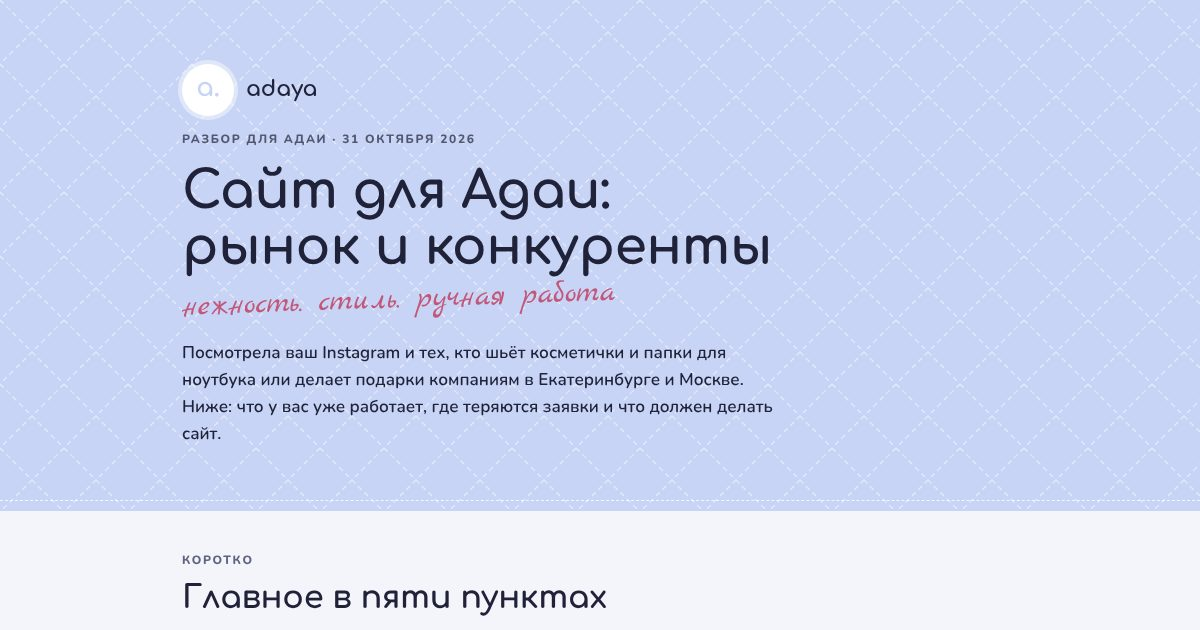
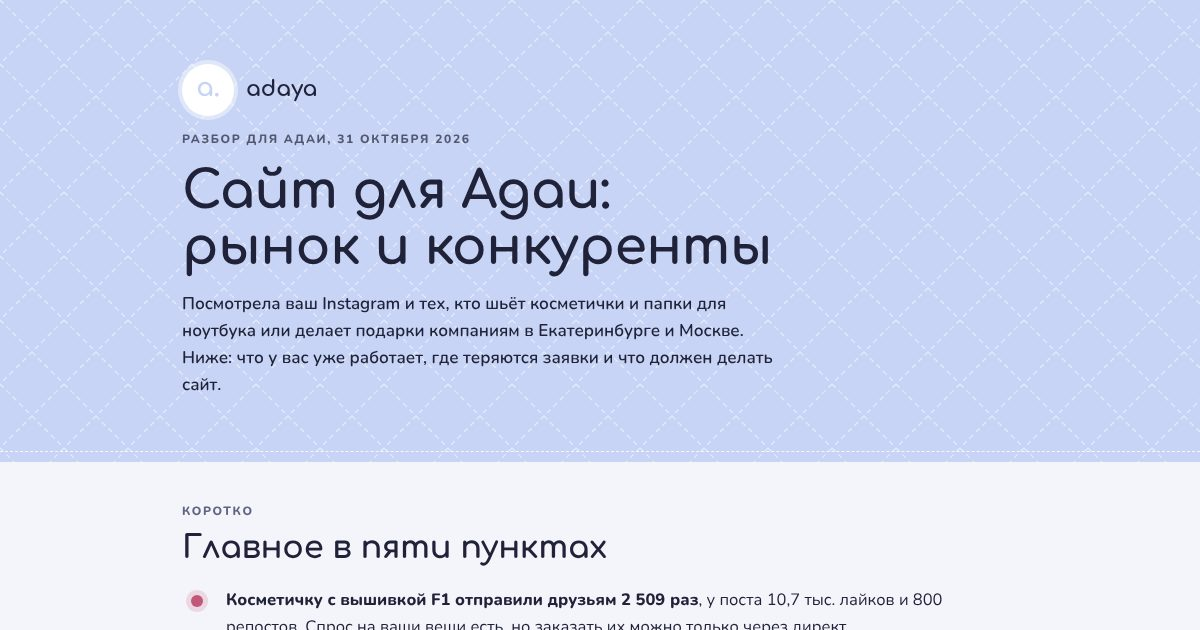
Адая: главный экран без строки с точками, лента-сантиметр и миниатюры изделий
Claude-Session: https://claude.ai/code/session_01MqcZMEh8DeEwFCaPR9DnHu

diff --git a/adaya/index.html b/adaya/index.html
@@ -5,17 +5,17 @@
 <meta name="viewport" content="width=device-width,initial-scale=1,viewport-fit=cover">
 <meta name="description" content="Папки для ноутбука и косметички по вашим размерам: главный экран и структура сайта Адаи">
 <meta property="og:type" content="website">
-<meta property="og:title" content="Адая · главный экран и структура сайта">
+<meta property="og:title" content="Адая — главный экран и структура сайта">
 <meta property="og:description" content="Папки для ноутбука и косметички по вашим размерам: главный экран и структура сайта Адаи">
 <meta property="og:image" content="https://mmaemi77-ctrl.github.io/Prototipfly/adaya/og-glavnyi.jpg">
 <meta property="og:image:width" content="1200">
 <meta property="og:image:height" content="630">
 <meta name="twitter:card" content="summary_large_image">
 <style>:root{color-scheme:light;box-sizing:border-box;padding-top:env(safe-area-inset-top,0px);padding-bottom:env(safe-area-inset-bottom,0px)}html{scroll-padding-top:env(safe-area-inset-top,0px)}body{margin:0;padding:0;font:14px -apple-system,BlinkMacSystemFont,sans-serif}img{max-width:100%}[hidden]{display:none!important}</style>
-<title>Адая · главный экран</title>
+<title>Адая — главный экран</title>
 <meta name="claude:viewport-fit-sides" content="cover">
 <link rel="preconnect" href="https://fonts.googleapis.com">
-<link rel="stylesheet" href="https://fonts.googleapis.com/css2?family=Comfortaa:wght@500;600;700&family=Marck+Script&family=Nunito:wght@400;600;700;800;900&display=swap">
+<link rel="stylesheet" href="https://fonts.googleapis.com/css2?family=Comfortaa:wght@500;600;700&family=Nunito:wght@400;600;700;800;900&display=swap">
 <style>
 /* Layout: витрина-мозаика из шаблона «Магазин». Перламутрово-голубая плитка со стёжкой ромбом и обещанием «по вашим размерам», большая плитка с фото изделий и переключателем, под ними строка подбора по ноутбуку; ниже структура сайта мини-макетами и живая заявка для компаний */
 :root{
@@ -34,12 +34,13 @@
   --thread:#C2577A;
   --display:"Comfortaa","Trebuchet MS",system-ui,sans-serif;
   --body:"Nunito",system-ui,-apple-system,"Segoe UI",sans-serif;
-  --script:"Marck Script","Segoe Script","Brush Script MT",cursive;
+  --tape:#F3DD72;
+  --tape-ink:#3A3524;
 }
 @media (prefers-color-scheme:dark){:root:not([data-theme="light"]){
-  --bg:#13141D;--surface:#1C1E2B;--ink:#EDEFF9;--muted:#A2A7C2;--line:#2D3044;--peri:#34406E;--peri-soft:#232843;--accent:#AFBDF4;--on-accent:#13141D;--butter:#8C7D36;--rose:#7C4A58;--wine:#D27382;--thread:#F0A3BC;color-scheme:dark}}
+  --bg:#13141D;--surface:#1C1E2B;--ink:#EDEFF9;--muted:#A2A7C2;--line:#2D3044;--peri:#34406E;--peri-soft:#232843;--accent:#AFBDF4;--on-accent:#13141D;--butter:#8C7D36;--rose:#7C4A58;--wine:#D27382;--thread:#F0A3BC;--tape:#E2CA62;--tape-ink:#2E2A1C;color-scheme:dark}}
 :root[data-theme="dark"]{
-  --bg:#13141D;--surface:#1C1E2B;--ink:#EDEFF9;--muted:#A2A7C2;--line:#2D3044;--peri:#34406E;--peri-soft:#232843;--accent:#AFBDF4;--on-accent:#13141D;--butter:#8C7D36;--rose:#7C4A58;--wine:#D27382;--thread:#F0A3BC;color-scheme:dark}
+  --bg:#13141D;--surface:#1C1E2B;--ink:#EDEFF9;--muted:#A2A7C2;--line:#2D3044;--peri:#34406E;--peri-soft:#232843;--accent:#AFBDF4;--on-accent:#13141D;--butter:#8C7D36;--rose:#7C4A58;--wine:#D27382;--thread:#F0A3BC;--tape:#E2CA62;--tape-ink:#2E2A1C;color-scheme:dark}
 
 *{box-sizing:border-box}
 body{background:var(--bg);color:var(--ink);font-family:var(--body);font-size:16px;line-height:1.55;margin:0;overflow-x:hidden}
@@ -59,13 +60,11 @@ button{font-family:var(--body)}
 .btn.sm{padding:10px 16px;font-size:14px}
 .btn svg{width:18px;height:18px;flex:none}
 .link{background:none;border:0;padding:0;font:inherit;color:inherit;text-decoration:underline;text-underline-offset:3px;cursor:pointer}
-.script{font-family:var(--script);font-weight:400;color:var(--thread);letter-spacing:.01em}
 
 /* шапка */
 .topline{background:var(--ink);color:var(--bg);font-size:13px;font-weight:700;text-align:center;padding-block:8px}
-.topline .wrap{display:flex;justify-content:center;gap:8px 22px;flex-wrap:wrap}
-.topline i{font-style:normal;opacity:.55}
-@media (max-width:520px){.topline i{display:none}.topline .wrap{gap:2px}}
+.topline .wrap{display:flex;justify-content:center;gap:8px 44px;flex-wrap:wrap}
+@media (max-width:520px){.topline .wrap{gap:2px}}
 header{position:sticky;top:env(safe-area-inset-top,0px);z-index:20;background:color-mix(in srgb,var(--bg) 90%,transparent);backdrop-filter:blur(12px);-webkit-backdrop-filter:blur(12px);border-bottom:1px solid var(--line)}
 header .wrap{display:flex;align-items:center;gap:22px;padding-block:12px}
 .logo{display:inline-flex;align-items:center;gap:10px;text-decoration:none;font-family:var(--display);font-weight:700;font-size:21px;letter-spacing:.01em}
@@ -88,9 +87,12 @@ header .btn{margin-left:4px}
 .t-main > *{position:relative;z-index:1}
 .t-main .tagrow{display:flex;flex-wrap:wrap;gap:8px}
 .chip{display:inline-flex;align-items:center;gap:6px;background:var(--surface);color:var(--ink);border-radius:999px;padding:7px 14px;font-size:13px;font-weight:800}
-.chip .dot{width:8px;height:8px;border-radius:50%;background:var(--thread)}
 .t-main h1{font-size:clamp(36px,5vw,60px);line-height:1.02;margin-top:4px}
-.t-main .script{font-size:clamp(26px,3.2vw,36px);display:block;margin-top:10px;transform:rotate(-2deg);transform-origin:left;text-shadow:0 1px 0 color-mix(in srgb,var(--surface) 60%,transparent)}
+.seam{background-image:linear-gradient(90deg,var(--thread) 0 9px,transparent 9px 15px);background-size:15px 3px;background-repeat:repeat-x;background-position:0 94%;padding-bottom:6px;white-space:nowrap;-webkit-box-decoration-break:clone;box-decoration-break:clone}
+.tape{position:relative;display:flex;justify-content:space-between;align-items:flex-end;gap:10px;height:42px;max-width:430px;margin-top:22px;padding:0 6px 6px 14px;border-radius:4px;transform:rotate(-1.6deg);transform-origin:left;color:var(--tape-ink);font-size:12.5px;font-weight:800;
+  background:repeating-linear-gradient(90deg,var(--tape-ink) 0 1.5px,transparent 1.5px 50px) 14px 0/calc(100% - 14px) 15px no-repeat,repeating-linear-gradient(90deg,color-mix(in srgb,var(--tape-ink) 70%,transparent) 0 1px,transparent 1px 10px) 14px 0/calc(100% - 14px) 8px no-repeat,var(--tape);
+  box-shadow:0 8px 18px rgb(30 34 60 / .14)}
+.tape b{background:var(--surface);color:var(--ink);border-radius:999px;padding:2px 10px;font-variant-numeric:tabular-nums}
 .t-main .sub{font-size:clamp(16px,1.6vw,18.5px);max-width:40ch;margin-top:16px;font-weight:600}
 .cta{display:flex;flex-wrap:wrap;gap:10px;margin-top:22px}
 .cta .btn.ghost{background:color-mix(in srgb,var(--surface) 55%,transparent);box-shadow:none}
@@ -99,17 +101,19 @@ header .btn{margin-left:4px}
 .facts span{display:block;font-size:13px;color:color-mix(in srgb,var(--ink) 72%,transparent);margin-top:4px;line-height:1.35}
 
 .t-photo{position:relative;border-radius:34px;overflow:hidden;background:#F6F5F2;min-height:590px}
-.t-photo img{position:absolute;inset:0;width:100%;height:100%;object-fit:cover;transition:opacity .35s}
-.t-photo img.fade{opacity:0}
-.t-photo .coll{position:absolute;top:18px;left:18px;z-index:2}
-.t-photo .size{position:absolute;top:18px;right:18px;z-index:2;background:var(--ink);color:var(--bg);border-radius:999px;padding:7px 14px;font-size:13px;font-weight:800}
+.t-photo > img{position:absolute;inset:0;width:100%;height:100%;object-fit:cover;transition:opacity .35s}
+.t-photo > img.fade{opacity:0}
+.t-photo .size{position:absolute;top:20px;left:20px;z-index:2;background:var(--ink);color:var(--bg);border-radius:999px;padding:7px 14px;font-size:13px;font-weight:800}
 .panel{position:absolute;left:14px;right:14px;bottom:14px;z-index:2;background:var(--surface);border-radius:24px;padding:14px 14px 14px 20px;display:flex;align-items:center;gap:14px;flex-wrap:wrap;box-shadow:0 14px 40px rgb(30 34 60 / .12)}
 .panel .info{flex:1;min-width:170px;display:grid;gap:2px}
 .panel .name{font-family:var(--display);font-weight:700;font-size:17px;line-height:1.25}
 .panel .spec{font-size:13.5px;color:var(--muted)}
-.arrows{display:flex;align-items:center;gap:6px;font-size:13px;font-weight:800;color:var(--muted);font-variant-numeric:tabular-nums}
-.arrows button{width:40px;height:40px;border-radius:50%;border:1.5px solid var(--line);background:var(--surface);color:var(--ink);font-size:17px;cursor:pointer}
-.arrows button:hover{border-color:var(--ink)}
+.thumbs{position:absolute;top:14px;right:14px;z-index:2;display:flex;gap:6px;padding:6px;border-radius:20px;background:color-mix(in srgb,var(--surface) 82%,transparent);backdrop-filter:blur(8px);-webkit-backdrop-filter:blur(8px)}
+.panel .coll{font-size:11.5px;font-weight:800;letter-spacing:.12em;text-transform:uppercase;color:var(--thread)}
+.thumbs button{width:46px;height:46px;border-radius:13px;border:0;padding:0;overflow:hidden;cursor:pointer;background:#F6F5F2;box-shadow:0 0 0 1.5px var(--line);opacity:.65;transition:opacity .2s,box-shadow .2s}
+.thumbs button:hover{opacity:1}
+.thumbs button[aria-pressed="true"]{opacity:1;box-shadow:0 0 0 2px var(--surface),0 0 0 4px var(--ink)}
+.thumbs img{width:100%;height:100%;object-fit:cover;display:block}
 
 .pick{grid-column:1/-1;background:var(--surface);border-radius:28px;padding:16px;display:grid;grid-template-columns:minmax(150px,1.1fr) repeat(4,minmax(0,1fr)) auto;gap:12px;align-items:end;border:1px solid var(--line)}
 .pick .lbl{font-family:var(--display);font-weight:700;font-size:17px;line-height:1.25;padding:0 6px 8px}
@@ -123,7 +127,7 @@ select:focus,input:focus{border-color:var(--accent);outline:none}
 .pick .own span{font-size:14px;color:var(--muted);font-weight:700}
 @media (max-width:1020px){.pick{grid-template-columns:repeat(2,minmax(0,1fr))}.pick .lbl{grid-column:1/-1;padding-bottom:0}.pick .btn{grid-column:1/-1}.pick .own{grid-column:1/-1}}
 @media (max-width:860px){.hero{grid-template-columns:1fr}.t-main{min-height:0}.t-photo{min-height:0;aspect-ratio:1/1.05;max-width:100%}}
-@media (max-width:520px){.facts{grid-template-columns:1fr;gap:10px}.facts div{display:flex;gap:10px;align-items:baseline}.facts span{margin:0}.pick{grid-template-columns:1fr}.t-photo{aspect-ratio:4/5}}
+@media (max-width:520px){.t-photo .size{display:none}.thumbs{left:50%;right:auto;transform:translateX(-50%)}.thumbs button{width:40px;height:40px;border-radius:11px}.facts{grid-template-columns:1fr;gap:10px}.facts div{display:flex;gap:10px;align-items:baseline}.facts span{margin:0}.pick{grid-template-columns:1fr}.t-photo{aspect-ratio:4/5}}
 
 /* структура */
 section{padding-block:56px}
@@ -215,6 +219,7 @@ section{padding-block:56px}
 
 footer{padding-block:36px 44px;font-size:14px;color:var(--muted)}
 footer .wrap{display:flex;flex-wrap:wrap;justify-content:space-between;align-items:center;gap:12px}
+.flinks{display:flex;flex-wrap:wrap;gap:6px 18px}
 .sign{display:inline-flex;align-items:center;gap:10px;flex-wrap:wrap}
 .sign b{font-family:var(--display);font-weight:700;letter-spacing:.08em;color:var(--ink)}
 .socials{display:flex;gap:8px}
@@ -240,7 +245,7 @@ footer .wrap{display:flex;flex-wrap:wrap;justify-content:space-between;align-ite
 <body>
 
 
-<div class="topline"><div class="wrap"><span>При заказе от 5&nbsp;000&nbsp;₽ стикер-пак в&nbsp;подарок</span><i aria-hidden="true">·</i><span>Шьём по&nbsp;вашим размерам</span></div></div>
+<div class="topline"><div class="wrap"><span>При заказе от 5&nbsp;000&nbsp;₽ стикер-пак в&nbsp;подарок</span><span>Шьём по&nbsp;вашим размерам</span></div></div>
 <header>
   <div class="wrap">
     <a class="logo" href="#top" aria-label="Адая"><span class="mark" aria-hidden="true">a.</span>adaya</a>
@@ -254,10 +259,10 @@ footer .wrap{display:flex;flex-wrap:wrap;justify-content:space-between;align-ite
 
 <section class="wrap hero" style="padding-block:14px 10px">
   <div class="t-main">
-    <div class="tagrow"><span class="chip"><span class="dot"></span>Ручная работа</span><span class="chip">Екатеринбург</span><span class="chip">Есть в&nbsp;Золотом яблоке</span></div>
+    <div class="tagrow"><span class="chip">Ручная работа</span><span class="chip">Екатеринбург</span><span class="chip">Есть в&nbsp;Золотом яблоке</span></div>
     <div>
-      <h1>Папка для ноутбука, сшитая по&nbsp;его размеру</h1>
-      <span class="script">нежность. стиль. ручная работа</span>
+      <h1>Папка для ноутбука, сшитая <span class="seam">по&nbsp;его размеру</span></h1>
+      <div class="tape" aria-hidden="true"><span>MacBook Air 13″</span><b>30,41 см</b></div>
       <p class="sub">И&nbsp;косметички к&nbsp;ней в&nbsp;пару. Вышьем имя, инициалы, болид из&nbsp;Баку или гранат из&nbsp;Стамбула.</p>
       <div class="cta"><a class="btn" href="#pick">Подобрать по&nbsp;размеру</a><a class="btn ghost" href="#s-korp">Подарки для команды</a></div>
     </div>
@@ -270,11 +275,10 @@ footer .wrap{display:flex;flex-wrap:wrap;justify-content:space-between;align-ite
 
   <div class="t-photo" aria-live="polite">
     <img id="ph" src="img/baku.jpg" alt="">
-    <span class="chip coll" id="p-coll"><span class="dot"></span><span></span></span>
     <span class="size" id="p-size"></span>
+    <div class="thumbs" id="thumbs" role="group" aria-label="Изделия"></div>
     <div class="panel">
-      <div class="info"><span class="name" id="p-name"></span><span class="spec" id="p-spec"></span></div>
-      <div class="arrows"><button type="button" id="prev" aria-label="Предыдущее изделие">←</button><span id="p-n"></span><button type="button" id="next" aria-label="Следующее изделие">→</button></div>
+      <div class="info"><span class="coll" id="p-coll"></span><span class="name" id="p-name"></span><span class="spec" id="p-spec"></span></div>
       <button type="button" class="btn sm accent" id="p-want">Хочу такую</button>
     </div>
   </div>
@@ -308,7 +312,7 @@ footer .wrap{display:flex;flex-wrap:wrap;justify-content:space-between;align-ite
 
 <article class="blk" id="s-glavnyi">
   <div class="wf" style="grid-template-columns:1fr 1fr;grid-template-rows:1fr auto">
-    <div class="peri" style="padding:10px;display:grid;gap:6px;align-content:end"><span class="ln" style="width:90%;height:9px;background:var(--ink)"></span><span class="ln" style="width:70%;height:9px;background:var(--ink)"></span><span class="script" style="font-size:13px;line-height:1">нежность. стиль</span><span class="pl" style="width:60%;height:16px;background:var(--ink);border-color:var(--ink);margin-top:4px"></span></div>
+    <div class="peri" style="padding:10px;display:grid;gap:6px;align-content:end"><span class="ln" style="width:90%;height:9px;background:var(--ink)"></span><span class="ln" style="width:70%;height:9px;background:var(--ink)"></span><span style="display:block;width:62%;height:9px;border-radius:2px;background:var(--tape);transform:rotate(-2deg)"></span><span class="pl" style="width:60%;height:16px;background:var(--ink);border-color:var(--ink);margin-top:4px"></span></div>
     <div class="ph" style="background-image:url(img/baku.jpg);position:relative"><span class="pl" style="position:absolute;left:6px;right:6px;bottom:6px;height:22px"></span></div>
     <div style="grid-column:1/-1;background:var(--surface);border-radius:10px;padding:5px;display:grid;grid-template-columns:repeat(4,1fr) .8fr;gap:5px"><span class="pl"></span><span class="pl"></span><span class="pl"></span><span class="pl"></span><span class="pl a"></span></div>
   </div>
@@ -356,7 +360,7 @@ footer .wrap{display:flex;flex-wrap:wrap;justify-content:space-between;align-ite
 <div class="wrap" style="padding-bottom:14px">
 <article class="corp" id="s-korp">
   <div class="corp-top">
-    <div><span class="no">05 · Корпоративные заказы</span><h3>Подарки команде с&nbsp;логотипом за&nbsp;5&nbsp;вопросов</h3><p>Компания отвечает на&nbsp;пять вопросов, а&nbsp;вам приходит готовый запрос: изделия, тираж, оформление, цвета и&nbsp;дата. Попробуйте, всё нажимается.</p></div>
+    <div><span class="no">05</span><span class="eyebrow" style="margin-left:10px">Корпоративные заказы</span><h3>Подарки команде с&nbsp;логотипом за&nbsp;5&nbsp;вопросов</h3><p>Компания отвечает на&nbsp;пять вопросов, а&nbsp;вам приходит готовый запрос: изделия, тираж, оформление, цвета и&nbsp;дата. Попробуйте, всё нажимается.</p></div>
     <span class="live">Работает в&nbsp;наброске</span>
   </div>
   <div class="corp-grid">
@@ -388,7 +392,7 @@ footer .wrap{display:flex;flex-wrap:wrap;justify-content:space-between;align-ite
       <span style="position:absolute;inset:7px;border:1.5px dashed rgb(255 255 255 / .8);border-radius:9px"></span>
       <span style="position:absolute;left:0;right:0;top:44%;height:10px;background:var(--rose)"></span>
       <span style="position:absolute;top:0;bottom:0;left:22%;width:10px;background:var(--rose)"></span>
-      <div style="position:relative;background:var(--surface);border-radius:10px;padding:8px 14px;text-align:center;display:grid;gap:2px"><span style="font-family:var(--display);font-weight:700;font-size:15px">a.</span><span class="script" style="font-size:15px;line-height:1">папка по&nbsp;размеру</span><span class="tiny">сертификат</span></div>
+      <div style="position:relative;background:var(--surface);border-radius:10px;padding:8px 14px;text-align:center;display:grid;gap:2px"><span style="font-family:var(--display);font-weight:700;font-size:15px">a.</span><span style="font-family:var(--display);font-weight:700;font-size:12px;line-height:1.2;color:var(--thread)">папка по&nbsp;размеру</span><span class="tiny">сертификат</span></div>
     </div>
   </div>
   <div class="txt"><span class="no">06</span><h3>Подарок к&nbsp;Новому году</h3><p class="why">Сертификат на&nbsp;папку по&nbsp;размеру: дарят, даже не&nbsp;зная модель ноутбука</p><ul><li>Сертификат в&nbsp;коробке</li><li>Получатель сам выбирает цвет и&nbsp;вышивку</li><li>Последний день заказа к&nbsp;31 декабря</li></ul></div>
@@ -462,7 +466,7 @@ footer .wrap{display:flex;flex-wrap:wrap;justify-content:space-between;align-ite
 
 <footer>
   <div class="wrap">
-    <span>Подготовила Анастасия Абдуллаева · <button type="button" class="link" data-doc="politika">Политика</button> · <button type="button" class="link" data-doc="soglasie">Согласие на&nbsp;обработку данных</button></span>
+    <span class="flinks"><span>Подготовила Анастасия Абдуллаева</span><button type="button" class="link" data-doc="politika">Политика</button><button type="button" class="link" data-doc="soglasie">Согласие на&nbsp;обработку данных</button></span>
     <span class="sign"><span><b>FOR.MI</b> designed &amp; developed by ABN</span><span class="socials" id="dev-socials"></span></span>
   </div>
 </footer>
@@ -492,10 +496,10 @@ const SHOP={
 };
 /* изделия из постов: названия описательные, как называете модели — уточнить */
 const ITEMS=[
-  {img:"img/baku.jpg",coll:"Коллекция F1",name:"Папка-конверт с вышивкой BAKU",spec:"Стёжка полосами · розовый болид",size:"по размеру ноутбука",alt:"Белая стёганая папка-конверт для ноутбука с вышивкой BAKU и розовым болидом"},
-  {img:"img/granat.jpg",coll:"Welcome to Istanbul",name:"Косметичка с вышивкой граната",spec:"Бордовая · стёжка ромбом",size:"косметичка",alt:"Бордовая стёганая косметичка с вышитыми гранатами"},
-  {img:"img/simit.jpg",coll:"Welcome to Istanbul",name:"Косметичка в клетку с симитом",spec:"Красная клетка · вышитый бублик-симит",size:"косметичка",alt:"Косметичка в красно-белую клетку с вышитым турецким бубликом"},
-  {img:"img/mama.jpg",coll:"День матери",name:"Папка на молнии «С днём мам»",spec:"Бежевая · гусыня с гусёнком",size:"по размеру ноутбука",alt:"Бежевая стёганая папка на молнии с вышивкой гусыни и надписью «с днём мам»"}
+  {img:"img/baku.jpg",coll:"Коллекция F1",name:"Папка-конверт с вышивкой BAKU",spec:"Стёжка полосами, розовый болид",size:"по размеру ноутбука",alt:"Белая стёганая папка-конверт для ноутбука с вышивкой BAKU и розовым болидом"},
+  {img:"img/granat.jpg",coll:"Welcome to Istanbul",name:"Косметичка с вышивкой граната",spec:"Бордовая, стёжка ромбом",size:"косметичка",alt:"Бордовая стёганая косметичка с вышитыми гранатами"},
+  {img:"img/simit.jpg",coll:"Welcome to Istanbul",name:"Косметичка в клетку с симитом",spec:"Красная клетка, вышитый бублик-симит",size:"косметичка",alt:"Косметичка в красно-белую клетку с вышитым турецким бубликом"},
+  {img:"img/mama.jpg",coll:"День матери",name:"Папка на молнии «С днём мам»",spec:"Бежевая, гусыня с гусёнком",size:"по размеру ноутбука",alt:"Бежевая стёганая папка на молнии с вышивкой гусыни и надписью «с днём мам»"}
 ];
 /* размеры ноутбуков: ширина × глубина × толщина, см (данные производителя) */
 const LAPTOPS=[
@@ -517,13 +521,13 @@ function show(k){
   cur=(k+ITEMS.length)%ITEMS.length;const m=ITEMS[cur],ph=$("#ph");
   ph.classList.add("fade");
   setTimeout(()=>{ph.src=m.img;ph.alt=m.alt;ph.classList.remove("fade")},180);
-  $("#p-coll span:last-child").textContent=m.coll;
+  $("#p-coll").textContent=m.coll;
   $("#p-name").textContent=m.name;$("#p-spec").textContent=m.spec;$("#p-size").textContent=m.size;
-  $("#p-n").textContent=(cur+1)+" / "+ITEMS.length;
+  $("#thumbs").querySelectorAll("button").forEach((b,i)=>b.setAttribute("aria-pressed",String(i===cur)));
 }
+$("#thumbs").innerHTML=ITEMS.map((m,i)=>`<button type="button" data-i="${i}" aria-label="${esc(m.name)}" aria-pressed="false"><img src="${m.img}" alt=""></button>`).join("");
+$("#thumbs").addEventListener("click",e=>{const b=e.target.closest("[data-i]");if(b&&+b.dataset.i!==cur)show(+b.dataset.i)});
 $("#ph").alt=ITEMS[0].alt;show(0);
-$("#prev").onclick=()=>show(cur-1);
-$("#next").onclick=()=>show(cur+1);
 
 /* подбор по размеру */
 $("#f-laptop").innerHTML=LAPTOPS.map(([n,s])=>`<option value="${esc(n)}">${esc(n)}</option>`).join("");
@@ -568,7 +572,7 @@ function corpLines(){
 function renderCorp(sent){
   const company=$("#c-company").value.trim(),name=$("#c-name").value.trim(),phone=$("#c-phone").value.trim();
   const lines=corpLines();
-  $("#corpmsg").innerHTML=`<span class="t">${sent?"Новый запрос от компании":"Черновик запроса"}${company?" · "+esc(company):""}</span><dl>${lines.map(([k,v])=>`<dt>${esc(k)}</dt><dd class="${v?"":"empty"}">${v?esc(v):"не выбрано"}</dd>`).join("")}<dt>Контакт</dt><dd class="${name||phone?"":"empty"}">${name||phone?esc([name,phone].filter(Boolean).join(", ")):"появится после заполнения"}</dd></dl><span class="time">${sent?"только что":"обновляется по ходу ответов"}</span>`;
+  $("#corpmsg").innerHTML=`<span class="t">${sent?"Новый запрос от компании":"Черновик запроса"}</span><dl>${company?`<dt>Компания</dt><dd>${esc(company)}</dd>`:""}${lines.map(([k,v])=>`<dt>${esc(k)}</dt><dd class="${v?"":"empty"}">${v?esc(v):"не выбрано"}</dd>`).join("")}<dt>Контакт</dt><dd class="${name||phone?"":"empty"}">${name||phone?esc([name,phone].filter(Boolean).join(", ")):"появится после заполнения"}</dd></dl><span class="time">${sent?"только что":"обновляется по ходу ответов"}</span>`;
 }
 document.querySelectorAll(".opts").forEach(g=>g.addEventListener("click",e=>{
   const b=e.target.closest(".opt");if(!b)return;

diff --git a/adaya/analiz.html b/adaya/analiz.html
@@ -12,10 +12,10 @@
 <meta property="og:image:height" content="630">
 <meta name="twitter:card" content="summary_large_image">
 <style>:root{color-scheme:light;box-sizing:border-box;padding-top:env(safe-area-inset-top,0px);padding-bottom:env(safe-area-inset-bottom,0px)}html{scroll-padding-top:env(safe-area-inset-top,0px)}body{margin:0;padding:0;font:14px -apple-system,BlinkMacSystemFont,sans-serif}img{max-width:100%}[hidden]{display:none!important}</style>
-<title>Адая · анализ</title>
+<title>Адая — анализ</title>
 <meta name="claude:viewport-fit-sides" content="cover">
 <link rel="preconnect" href="https://fonts.googleapis.com">
-<link rel="stylesheet" href="https://fonts.googleapis.com/css2?family=Comfortaa:wght@500;600;700&family=Marck+Script&family=Nunito:wght@400;600;700;800;900&display=swap">
+<link rel="stylesheet" href="https://fonts.googleapis.com/css2?family=Comfortaa:wght@500;600;700&family=Nunito:wght@400;600;700;800;900&display=swap">
 <style>
 /* Layout: разбор-документ в одну колонку. Шапка в фирменном голубом со стёжкой ромбом, карточки только у конкурентов и сильных сторон, карта ниши, переписка «было и стало» */
 :root{
@@ -34,7 +34,6 @@
   --chatbg:#E9ECF6;
   --display:"Comfortaa","Trebuchet MS",system-ui,sans-serif;
   --body:"Nunito",system-ui,-apple-system,"Segoe UI",sans-serif;
-  --script:"Marck Script","Segoe Script","Brush Script MT",cursive;
 }
 @media (prefers-color-scheme:dark){:root:not([data-theme="light"]){
   --bg:#13141D;--surface:#1C1E2B;--ink:#EDEFF9;--muted:#A2A7C2;--line:#2D3044;--peri:#34406E;--peri-soft:#232843;--accent:#AFBDF4;--on-accent:#13141D;--rose:#7C4A58;--thread:#F0A3BC;--bubble-in:#262A3B;--chatbg:#171925;color-scheme:dark}}
@@ -64,7 +63,6 @@ section:first-of-type{border-top:0}
 .top .eyebrow{color:color-mix(in srgb,var(--ink) 70%,transparent)}
 .top h1{font-size:clamp(32px,5.4vw,52px);line-height:1.08}
 .top p{max-width:60ch;font-weight:600;font-size:17px}
-.top .script{font-family:var(--script);color:var(--thread);font-size:clamp(24px,3vw,32px);transform:rotate(-2deg);transform-origin:left;display:block;line-height:1.1}
 
 /* главное */
 .five{list-style:none;margin:20px 0 0;padding:0;display:grid;gap:12px}
@@ -183,9 +181,8 @@ footer b{font-family:var(--display);font-weight:700;letter-spacing:.08em;color:v
 <div class="top">
   <div class="wrap">
     <span class="brandmark"><span aria-hidden="true">a.</span>adaya</span>
-    <div class="eyebrow">Разбор для Адаи · 31 октября 2026</div>
+    <div class="eyebrow">Разбор для Адаи, 31 октября 2026</div>
     <h1>Сайт для Адаи: рынок и&nbsp;конкуренты</h1>
-    <span class="script">нежность. стиль. ручная работа</span>
     <p>Посмотрела ваш Instagram и&nbsp;тех, кто шьёт косметички и&nbsp;папки для ноутбука или делает подарки компаниям в&nbsp;Екатеринбурге и&nbsp;Москве. Ниже: что у&nbsp;вас уже работает, где теряются заявки и&nbsp;что должен делать сайт.</p>
   </div>
 </div>
